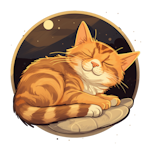
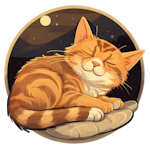
More cats added

diff --git a/src/panels/Home.js b/src/panels/Home.js
@@ -1,5 +1,6 @@
 import PropTypes from "prop-types";
-import React from "react";
+import React, { useRef } from "react";
+import getRandomCatImage from "../helpers/getRandomCatImage";
 
 import {
   Avatar,
@@ -9,62 +10,73 @@ import {
   Header,
   Panel,
   PanelHeader,
+  Paragraph,
+  Title,
 } from "@vkontakte/vkui";
 
-const Home = ({ id, fetchedUser, openAction }) => (
-  <Panel id={id}>
-    <PanelHeader>Котокликер</PanelHeader>
-    {fetchedUser && (
-      <Group
-        header={
-          <Header mode="secondary">Кто нажмет на котика?</Header>
-        }
-      >
-        <Cell
-          before={
-            fetchedUser.photo_200 ? (
-              <Avatar src={fetchedUser.photo_200} />
-            ) : null
-          }
-          subtitle={
-            fetchedUser.city && fetchedUser.city.title
-              ? fetchedUser.city.title
-              : ""
-          }
-        >
-          {`${fetchedUser.first_name} ${fetchedUser.last_name}`}
-        </Cell>
+const Home = ({
+  id,
+  fetchedUser,
+  openAction,
+  showAd,
+  isNativeAds,
+  isNativeAdsAvailableCheck,
+}) => {
+  const randomCat = useRef(getRandomCatImage());
+  console.log("randomCat", randomCat.current)
+
+  return (
+    <Panel id={id}>
+      <PanelHeader>Котокликер</PanelHeader>
+      {fetchedUser && (
+        <Group header={<Header mode="secondary">Кто нажмет на котика?</Header>}>
+          <Cell
+            before={
+              fetchedUser.photo_200 ? (
+                <Avatar src={fetchedUser.photo_200} />
+              ) : null
+            }
+            subtitle={
+              fetchedUser.city && fetchedUser.city.title
+                ? fetchedUser.city.title
+                : ""
+            }
+          >
+            {`${fetchedUser.first_name} ${fetchedUser.last_name}`}
+          </Cell>
+        </Group>
+      )}
+
+      <Group header={<Header mode="secondary">Нажми на котика</Header>}>
+        <Div>
+          <Paragraph>
+            С каждым нажатием на котика твой счет увеличивается на 1. Но каждое
+            нажатие требует просмотра рекламы. Но даже если ты не нажмешь на
+            котика, ты все равно большой молодец, и у тебя все получится.
+          </Paragraph>
+          <center>
+            <img
+              style={{
+                maxWidth: "100%",
+                maxHeight: "100%",
+              }}
+              src={randomCat.current}
+              alt="Котик"
+              onClick={() => {
+                console.log("click on cat");
+                if (isNativeAds) {
+                  showAd();
+                  isNativeAdsAvailableCheck();
+                }
+                //openAction();
+              }}
+            />
+          </center>
+        </Div>
       </Group>
-    )}
-
-    <Group header={<Header mode="secondary">Нажми на котика</Header>}>
-      <Div>
-        <center>
-          <img
-            style={{
-              maxWidth: "100%",
-              maxHeight: "100%",
-            }}
-            src="/576.png"
-            alt="Котик"
-            onClick={() => {
-              console.log("on click on cat");
-              openAction();
-            }}
-          />
-        </center>
-      </Div>
-    </Group>
-
-    {/*<Group header={<Header mode="secondary">Navigation Example</Header>}>
-			<Div>
-				<Button stretched size="l" mode="secondary" onClick={go} data-to="persik">
-					Show me the Persik, please
-				</Button>
-			</Div>
-		</Group>*/}
-  </Panel>
-);
+    </Panel>
+  );
+};
 
 Home.propTypes = {
   id: PropTypes.string.isRequired,

diff --git a/src/App.js b/src/App.js
@@ -1,15 +1,16 @@
 import bridge from "@vkontakte/vk-bridge";
 import {
-	AdaptivityProvider,
-	Alert,
-	AppRoot,
-	ConfigProvider,
-	SplitCol,
-	SplitLayout,
-	View
+  AdaptivityProvider,
+  Alert,
+  AppRoot,
+  ConfigProvider,
+  SplitCol,
+  SplitLayout,
+  View,
 } from "@vkontakte/vkui";
 import "@vkontakte/vkui/dist/vkui.css";
 import React, { useEffect, useState } from "react";
+import useBannerAds from "./hooks/useBannerAds";
 
 import Home from "./panels/Home";
 
@@ -17,6 +18,46 @@ const App = () => {
   const [activePanel, setActivePanel] = useState("home");
   const [fetchedUser, setUser] = useState(null);
   const [popout, setPopout] = useState(null); //useState(<ScreenSpinner size='large' />);
+
+  const [isNativeAds, setIsNativeAds] = useState(false);
+
+  useEffect(() => {
+    isNativeAdsAvailableCheck();
+  }, []);
+
+  const isNativeAdsAvailableCheck = async () => {
+    try {
+      const data = await bridge.send("VKWebAppCheckNativeAds", {
+        ad_format: "reward",
+      });
+      if (data.result) {
+        setIsNativeAds(true);
+        return true;
+      } else {
+        setIsNativeAds(false);
+        return false;
+      }
+    } catch (error) {
+      console.log(error);
+      return false;
+    }
+  };
+
+  const showAd = async () => {
+    try {
+      const data = await bridge.send("VKWebAppShowNativeAds", {
+        ad_format: "reward",
+      });
+
+      if (data.result)
+        // Успех
+        console.log("Реклама показана");
+      // Ошибка
+      else console.log("Ошибка при показе");
+    } catch (error) {
+      console.log(error); /* Ошибка */
+    }
+  };
 
   const openAction = () => {
     setPopout(
@@ -42,6 +83,7 @@ const App = () => {
       />
     );
   };
+
   useEffect(() => {
     async function fetchData() {
       const user = await bridge.send("VKWebAppGetUserInfo");
@@ -51,6 +93,8 @@ const App = () => {
     fetchData();
   }, []);
 
+  useBannerAds("INITIALIZED");
+
   return (
     <ConfigProvider>
       <AdaptivityProvider>
@@ -59,6 +103,9 @@ const App = () => {
             <SplitCol>
               <View activePanel={activePanel}>
                 <Home
+                  isNativeAds={isNativeAds}
+                  isNativeAdsAvailableCheck={isNativeAdsAvailableCheck}
+                  showAd={showAd}
                   id="home"
                   fetchedUser={fetchedUser}
                   openAction={openAction}

diff --git a/src/hooks/useBannerAds.js b/src/hooks/useBannerAds.js
@@ -1,0 +1,27 @@
+import bridge, { BannerAdLocation } from "@vkontakte/vk-bridge";
+import { useEffect } from "react";
+
+const useBannerAds = (vkBridgeStatus) => {
+  useEffect(() => {
+    if (vkBridgeStatus === "INITIALIZED") {
+      bridge.send("VKWebAppInit").then(() => {
+        bridge
+          .send("VKWebAppShowBannerAd", {
+            banner_location: BannerAdLocation.BOTTOM,
+          })
+          .then((data) => {
+            if (data.result) {
+              // Баннерная реклама отобразилась
+              console.log("show banner ad", data);
+            }
+          })
+          .catch((error) => {
+            // Ошибка
+            console.log(error);
+          });
+      });
+    }
+  }, [vkBridgeStatus]);
+};
+
+export default useBannerAds;

diff --git a/src/helpers/getRandomCatImage.js b/src/helpers/getRandomCatImage.js
@@ -1,0 +1,13 @@
+import cats_list from '../data/cats_list';
+
+
+function getRandomCat(cat_list) {
+  const randomIndex = Math.floor(Math.random() * cat_list.length);
+  return cat_list[randomIndex];
+}
+
+function getRandomCatImage() {
+  return getRandomCat(cats_list);
+}
+
+export default getRandomCatImage;

diff --git a/src/data/cats_list.js b/src/data/cats_list.js
@@ -1,3 +1,9 @@
 const cats_list = [
-    'cat1.jpg',
+  "/cats/cat1.png",
+  "/cats/cat2.png",
+  "/cats/cat3.png",
+  "/cats/cat4.png",
+  "/cats/cat5.png",
 ];
+
+export default cats_list;

diff --git a/src/data/good_texts.js b/src/data/good_texts.js
@@ -1,0 +1,4 @@
+const goodTexts = [
+    'Ты большой молодец!',
+    'Ты сегодня просто прелесть!',
+];
